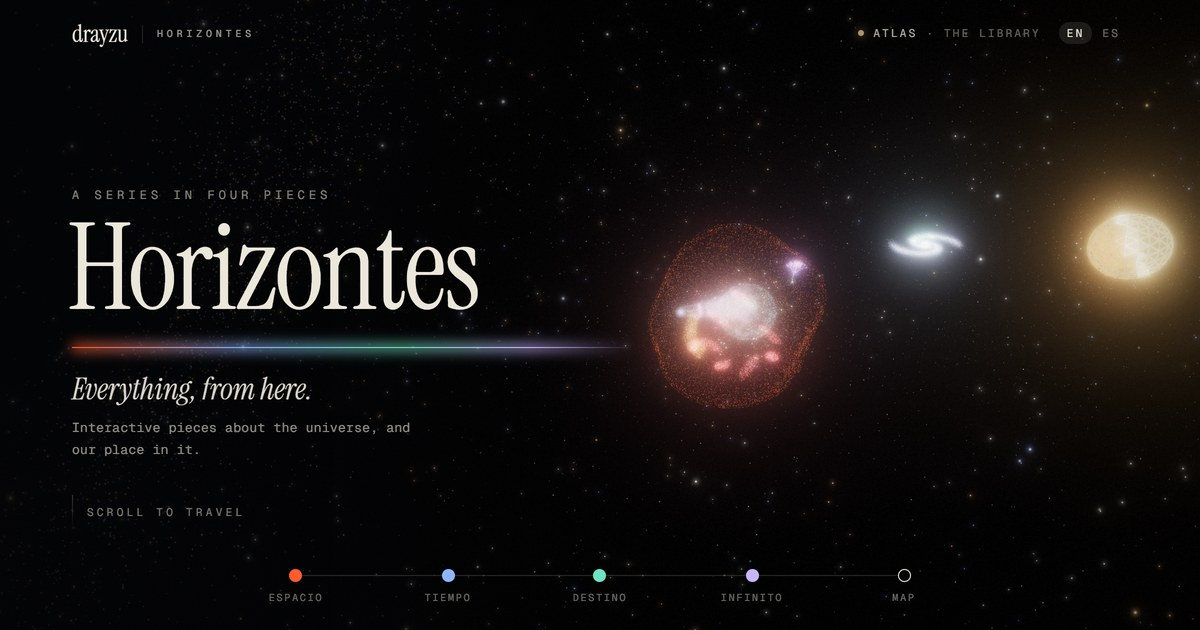
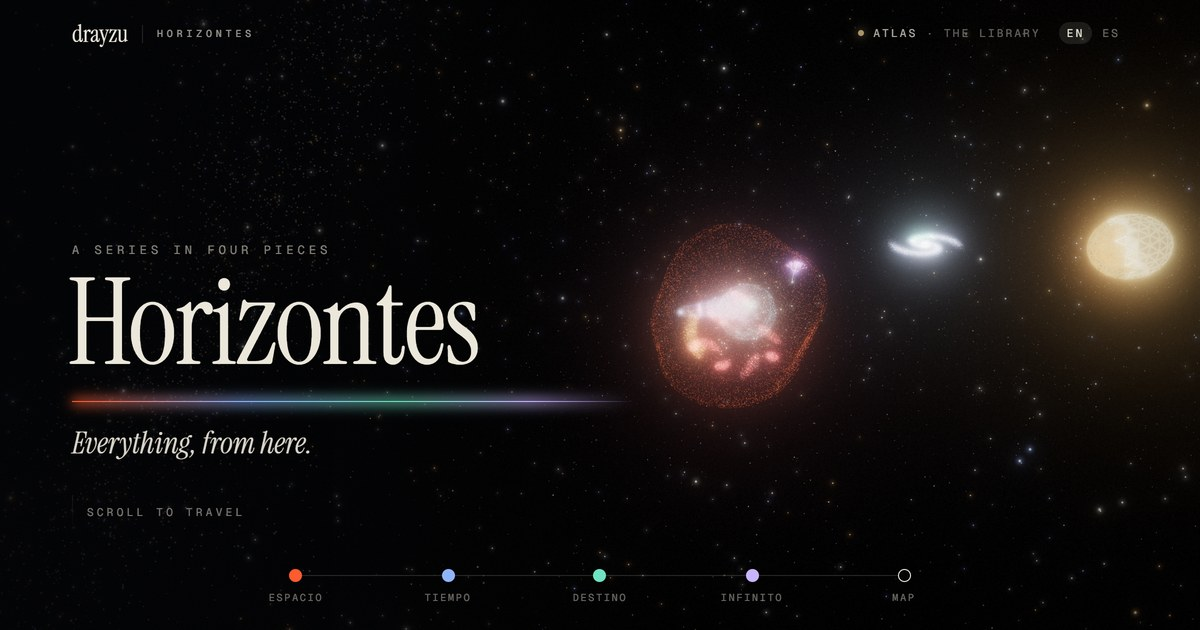
feat: let the title stand with only its line
The first stop drops the descriptive sentence; the link preview follows.

Changed region(s): [[0.0308, 0.3016, 0.5242, 0.7238], [0.6475, 0.5429, 0.6783, 0.573]]

diff --git a/src/style.css b/src/style.css
@@ -98,7 +98,6 @@ body.ready .rail { opacity: 1; pointer-events: auto; }
 .panel.hero > .horizon { transform: scaleX(0); transform-origin: left; filter: none; }
 .panel.hero.on > .horizon { transform: scaleX(1); transition: transform 1.8s cubic-bezier(.6,0,.2,1) .25s; }
 .hero .tag { font-size: clamp(26px, 2.5vw, 40px); opacity: .92; margin-top: 22px; }
-.lede { font-size: 13px; line-height: 1.7; letter-spacing: .02em; opacity: .6; margin: 10px 0 0; max-width: 46ch; }
 .hint { margin: 34px 0 0; font-size: 11px; letter-spacing: .3em; opacity: .5; display: flex; align-items: center; gap: 14px; }
 .hint i { width: 1px; height: 34px; background: linear-gradient(var(--ink), transparent); animation: drop 2.2s ease-in-out infinite; transform-origin: top; }
 @keyframes drop { 0% { transform: scaleY(0); } 50% { transform: scaleY(1); } 100% { transform: scaleY(1); opacity: 0; } }
@@ -164,7 +163,6 @@ body.nogl .nogl-note { display: block; padding: 0 var(--gut); font-size: 12px; o
   .panel { left: 20px; right: 20px; width: auto; top: auto; bottom: 96px; transform: none; }
   .hero { bottom: 110px; }
   .hero h1 { font-size: clamp(60px, 17vw, 96px); }
-  .lede { font-size: 12px; }
   .shade { background: linear-gradient(0deg, rgba(4,5,7,.9) 0%, rgba(4,5,7,.55) 40%, rgba(4,5,7,0) 70%); }
   .rail button span { display: none; }
   .atlas span { display: none; }

diff --git a/src/i18n.ts b/src/i18n.ts
@@ -6,7 +6,6 @@ const T: Record<Lang, Record<string, string>> = {
   en: {
     'series': 'A SERIES IN FOUR PIECES',
     'hero.tag': 'Everything, from here.',
-    'hero.lede': 'Interactive pieces about the universe, and our place in it.',
     'hero.hint': 'SCROLL TO TRAVEL',
     'enter': 'ENTER',
     'name.space': 'Espacio', 'name.time': 'Tiempo', 'name.civ': 'Destino', 'name.inf': 'Infinito', 'atlas.what': ' · THE LIBRARY',
@@ -26,7 +25,6 @@ const T: Record<Lang, Record<string, string>> = {
   es: {
     'series': 'UNA SERIE EN CUATRO PIEZAS',
     'hero.tag': 'Todo, desde aquí.',
-    'hero.lede': 'Piezas interactivas sobre el universo y nuestro lugar en él.',
     'hero.hint': 'DESLIZA PARA VIAJAR',
     'enter': 'ENTRAR',
     'name.space': 'Espacio', 'name.time': 'Tiempo', 'name.civ': 'Destino', 'name.inf': 'Infinito', 'atlas.what': ' · LA BIBLIOTECA',

diff --git a/index.html b/index.html
@@ -49,7 +49,6 @@
       <h1>Horizontes</h1>
       <div class="horizon" aria-hidden="true"></div>
       <p class="tag" data-t="hero.tag">Everything, from here.</p>
-      <p class="lede" data-t="hero.lede">Interactive pieces about the universe, and our place in it.</p>
       <p class="hint"><i></i><span data-t="hero.hint">SCROLL TO TRAVEL</span></p>
     </section>
 
